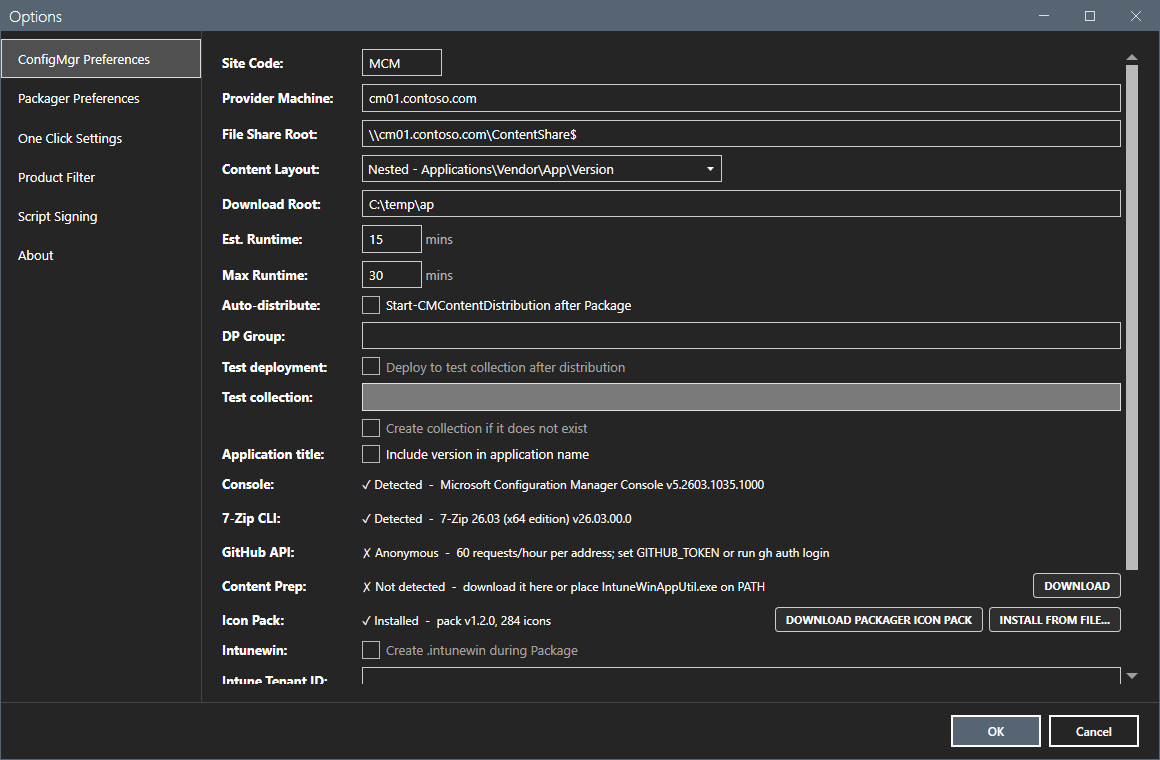
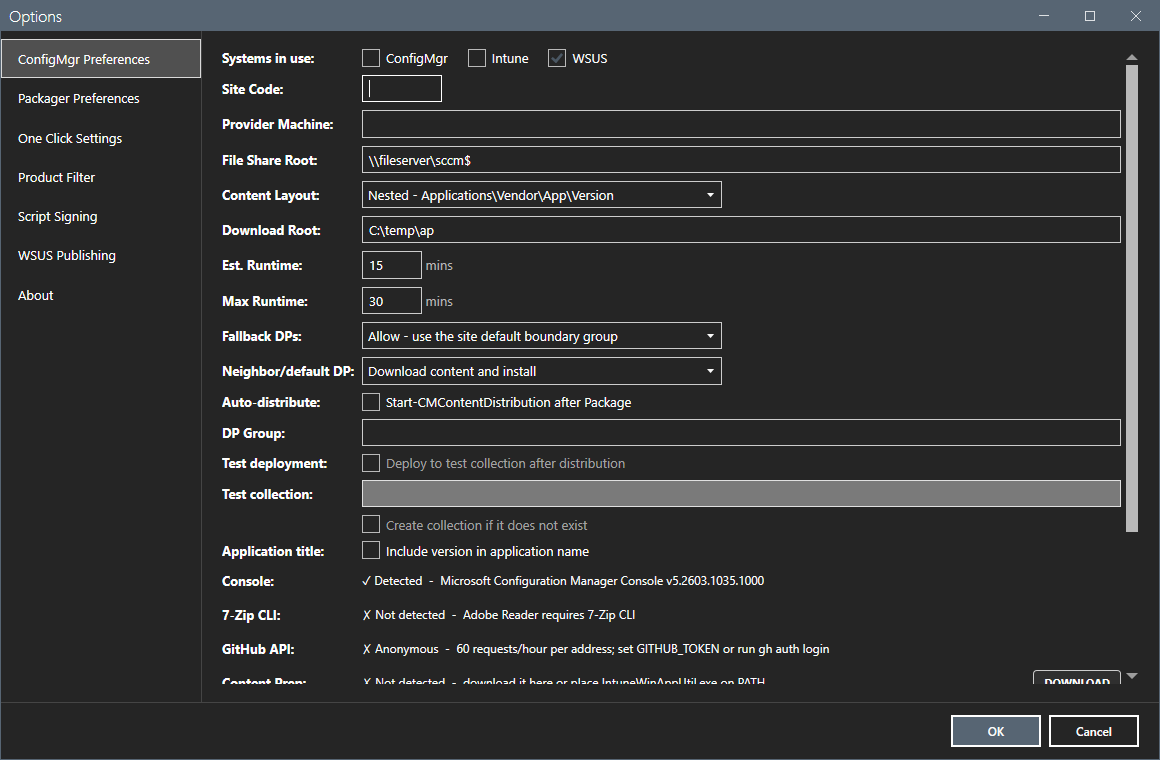
Release 2026.09.30.0098

diff --git a/README.md b/README.md
@@ -28,7 +28,7 @@ Installs the latest release into `%LOCALAPPDATA%\AppPackager`. Only a zip crosse
 On an unrestricted network, the installer can do the whole flow itself — resolve the release from the GitHub API, download, verify SHA-256, extract:
 
 ```powershell
-curl.exe -Lso "$env:TEMP\ap.zip" https://github.com/jasonulbright/app-packager/releases/latest/download/AppPackager.zip; Expand-Archive "$env:TEMP\ap.zip" "$env:TEMP\ap-setup" -Force; & "$env:TEMP\ap-setup\install.ps1" -InstallPath 'D:\Tools\AppPackager' -Version 2026.09.30.0097
+curl.exe -Lso "$env:TEMP\ap.zip" https://github.com/jasonulbright/app-packager/releases/latest/download/AppPackager.zip; Expand-Archive "$env:TEMP\ap.zip" "$env:TEMP\ap-setup" -Force; & "$env:TEMP\ap-setup\install.ps1" -InstallPath 'D:\Tools\AppPackager' -Version 2026.09.30.0098
 ```
 
 Omitting `-ZipPath` makes it download and checksum-verify the requested release; `-InstallPath` picks the folder and `-Version` pins a release. `-Force` is required to replace a non-empty folder that holds no existing AppPackager install. If even the curl download is blocked, fetch the zip in a browser and run the same `-ZipPath` command against it.
@@ -147,6 +147,8 @@ Or with custom parameters:
 
 **No network or ConfigMgr actions occur on launch.** The GUI loads packager scripts locally (pre-populating the Latest and Last Checked columns from any persistent history) and waits for you to act.
 
+![Setup](screenshots/setup.png)
+
 **First-run setup** — on a machine with no `AppPackager.preferences.json` yet, a themed Setup window opens over the main window once the grid has loaded. It asks which systems you publish to (ConfigMgr, Intune, WSUS, in any combination) and then shows only the settings those systems need: Site Code, Provider Machine, File Share Root, and Download Root for ConfigMgr, Tenant ID, Client ID, and Client Secret for Intune, and the WSUS server, port and SSL choice for WSUS. The selection is saved as **Systems in use** (Options, ConfigMgr Preferences): the sidebar buttons of a system that is not in use stay disabled, whatever else is set, and a version check runs without a site code when ConfigMgr is not in use. One Click publishes to the first selected system (ConfigMgr, then Intune, then WSUS); change that in One Click Settings. Saving writes the same preference keys the Options window writes — the client secret DPAPI-protected for the current Windows user, an empty secret box keeping any saved one — and the main window picks the settings up without a restart. A "Don't show this again" checkbox lets you dismiss the wizard permanently without configuring anything; skipping or closing it without that box ticked brings it back on the next launch. Existing installs are unaffected: a preferences file from an earlier version counts as already set up.
 
 The sidebar has the workflow actions at the top, an **Add Installer...** button that feeds the drop-to-package intake, a single **Options** button below them, a sidebar comment field, and Debug Columns / theme toggles plus the installed version at the bottom:
@@ -160,7 +162,7 @@ The sidebar has the workflow actions at the top, an **Add Installer...** button 
 - **Publish to WSUS** — stages each checked app and publishes its installer to WSUS as an update for computers that have an older version
 - **WSUS Updates** — lists the updates AppPackager published to WSUS; approve, decline, expire or remove them, or import from the Microsoft Update Catalog
 
-Each publish button sends the checked apps to its own destination, so the destination is chosen per run. A button whose system is not configured is disabled, and its tooltip says what to set: the ConfigMgr console and a site code for ConfigMgr, Tenant ID, Client ID and Client Secret for Intune, and a WSUS server for WSUS.
+Each publish button sends the checked apps to its own destination, so the destination is chosen per run. A button whose system is not in use (Systems in use, set in Setup or Options) or not configured is disabled, and its tooltip says what to set: the ConfigMgr console and a site code for ConfigMgr, Tenant ID, Client ID and Client Secret for Intune, and a WSUS server for WSUS.
 
 All workflow actions share the same persistent history file at `%LOCALAPPDATA%\AppPackager\app-history.json`, so Latest Version and Last Checked survive across sessions.
 
@@ -282,6 +284,10 @@ A publish runs these steps:
 7. A failed approval or decline does not undo the publish. The row shows **Published, warning** (**Packaged, WSUS warning** after a One Click ConfigMgr + WSUS run), and the log names the failure.
 
 Every update goes under the vendor **AppPackager** and the product **AppPackager Applications**. One category keeps the server under its limit of locally published categories. With Configuration Manager, select that product in the software update point's Products list and the chosen classification in its Classifications list, then synchronize software updates. WSUS removes the category with the last AppPackager update and creates it again, with the same ID, at the next publish. Configuration Manager keeps the product selected. Until the next publish, each synchronization writes `Requested category not found` for the product to `wsyncmgr.log`.
+
+![WSUS Publishing options](screenshots/options-wsus.png)
+
+![WSUS Updates](screenshots/wsus-updates.png)
 
 **WSUS Updates** in the sidebar lists the updates AppPackager published, with their approvals and state, and acts on the selected updates. **Show updates from other publishers** also lists locally published updates from other tools. An update with the **Type** `Application` comes from an earlier build that could install on computers without the application. A new publish does not supersede or decline it, and the publish log names it. Expire and remove it.
 

diff --git a/CHANGELOG.md b/CHANGELOG.md
@@ -1,5 +1,13 @@
 # Changelog
 
+## [2026.09.30.0098] - 2026-09-30
+
+## 5 screenshots show the three publish destinations
+
+### Changed
+
+- Name the three publish destinations in About.
+- Show Setup, the WSUS options, and the WSUS Updates window in the README.
 ## [2026.09.30.0097] - 2026-09-30
 
 ## 3 publish destinations chosen per run
